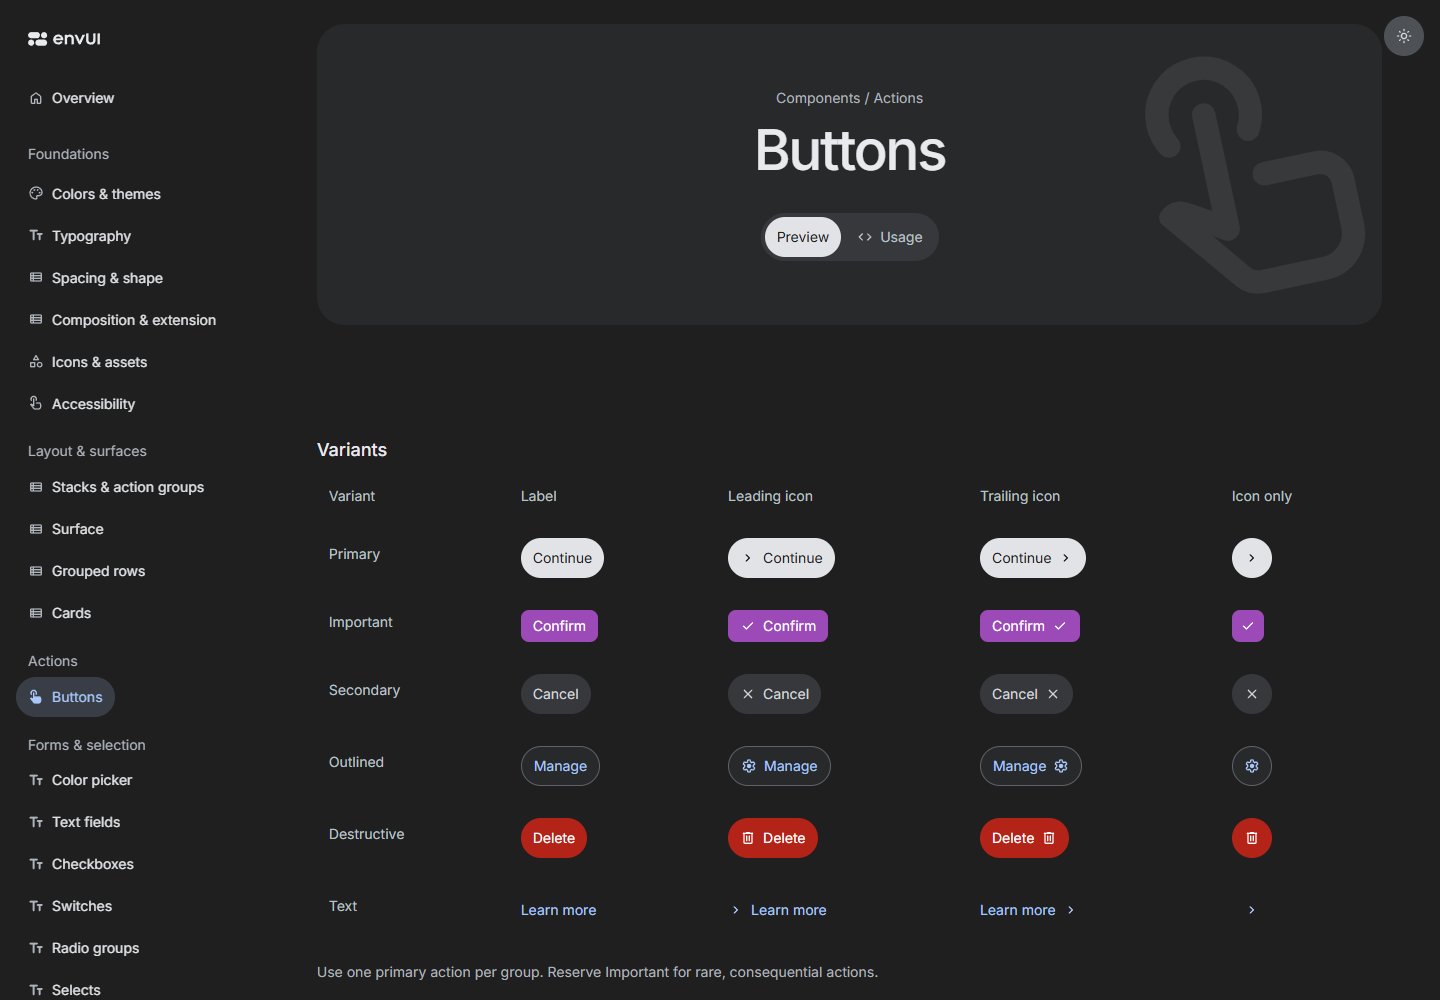
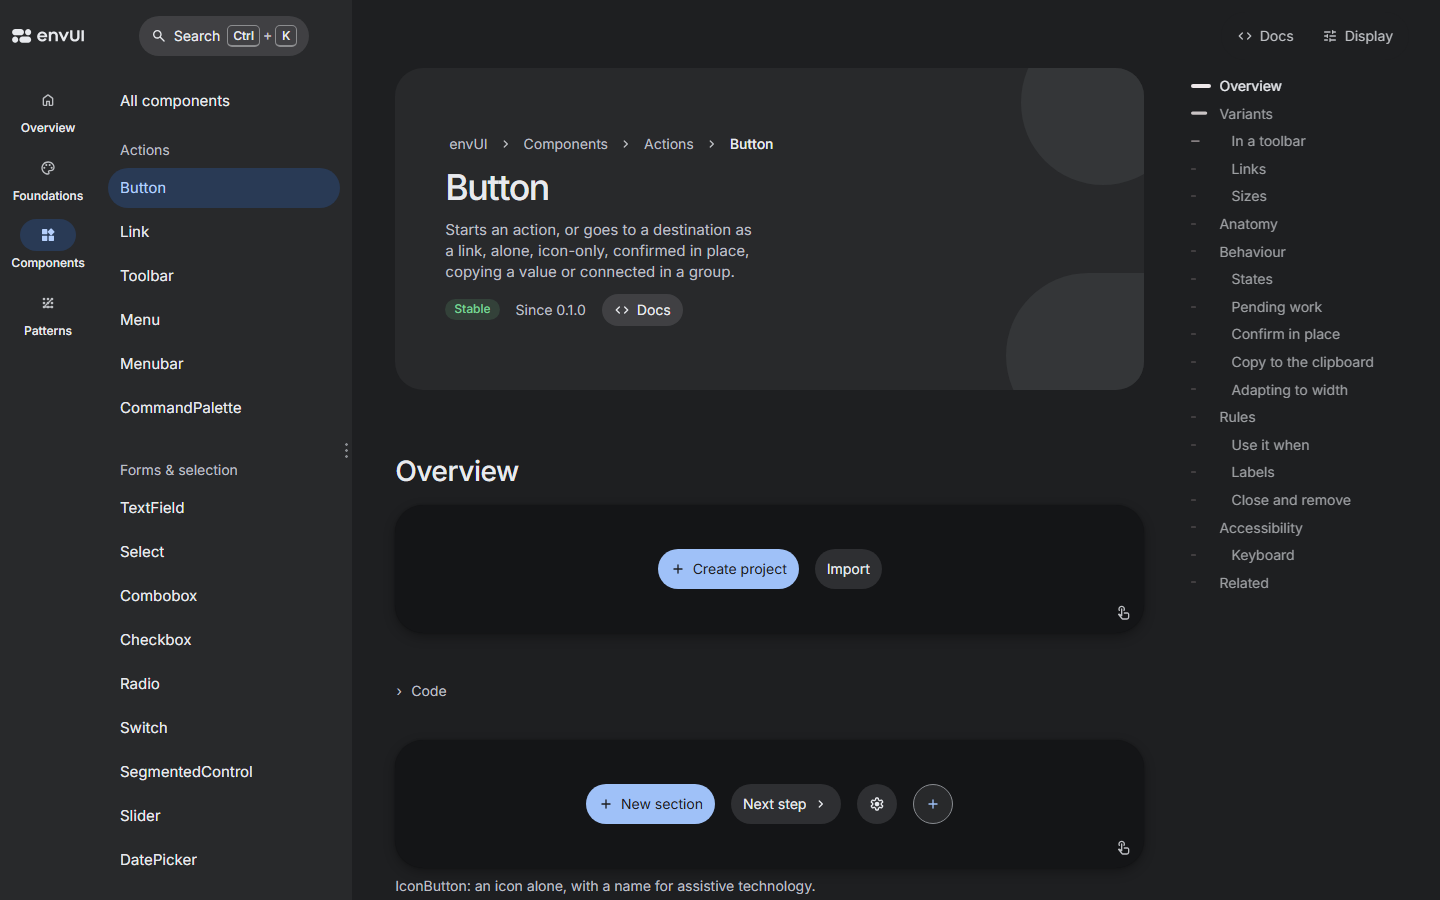
README: new pictures of the catalogue and the Docs, light and dark

diff --git a/README.md b/README.md
@@ -16,7 +16,7 @@ envUI brings consistent themes, composition and interaction to React application
 
 <picture>
   <source media="(prefers-color-scheme: dark)" srcset="assets/readme/catalogue-dark.png">
-  <img src="assets/readme/catalogue-light.png" alt="The envUI catalogue showing buttons, icons and navigation in the light theme" width="1440">
+  <img src="assets/readme/catalogue-light.png" alt="The Button page of the envUI catalogue, with its navigation, its examples and the page's contents" width="1440">
 </picture>
 
 _The catalogue: every component, pattern and foundation with live examples, and when to use each. The picture follows your light or dark appearance._
@@ -33,7 +33,7 @@ _The catalogue: every component, pattern and foundation with live examples, and 
 
 <picture>
   <source media="(prefers-color-scheme: dark)" srcset="assets/readme/docs-dark.png">
-  <img src="assets/readme/docs-light.png" alt="A page of the envUI Docs with its navigation, a component's props and the page's contents" width="1440">
+  <img src="assets/readme/docs-light.png" alt="The Button page of the envUI Docs, with its navigation, its code and the page's contents" width="1440">
 </picture>
 
 _The Docs: setup, guides and every component's props, part names and changelog._
